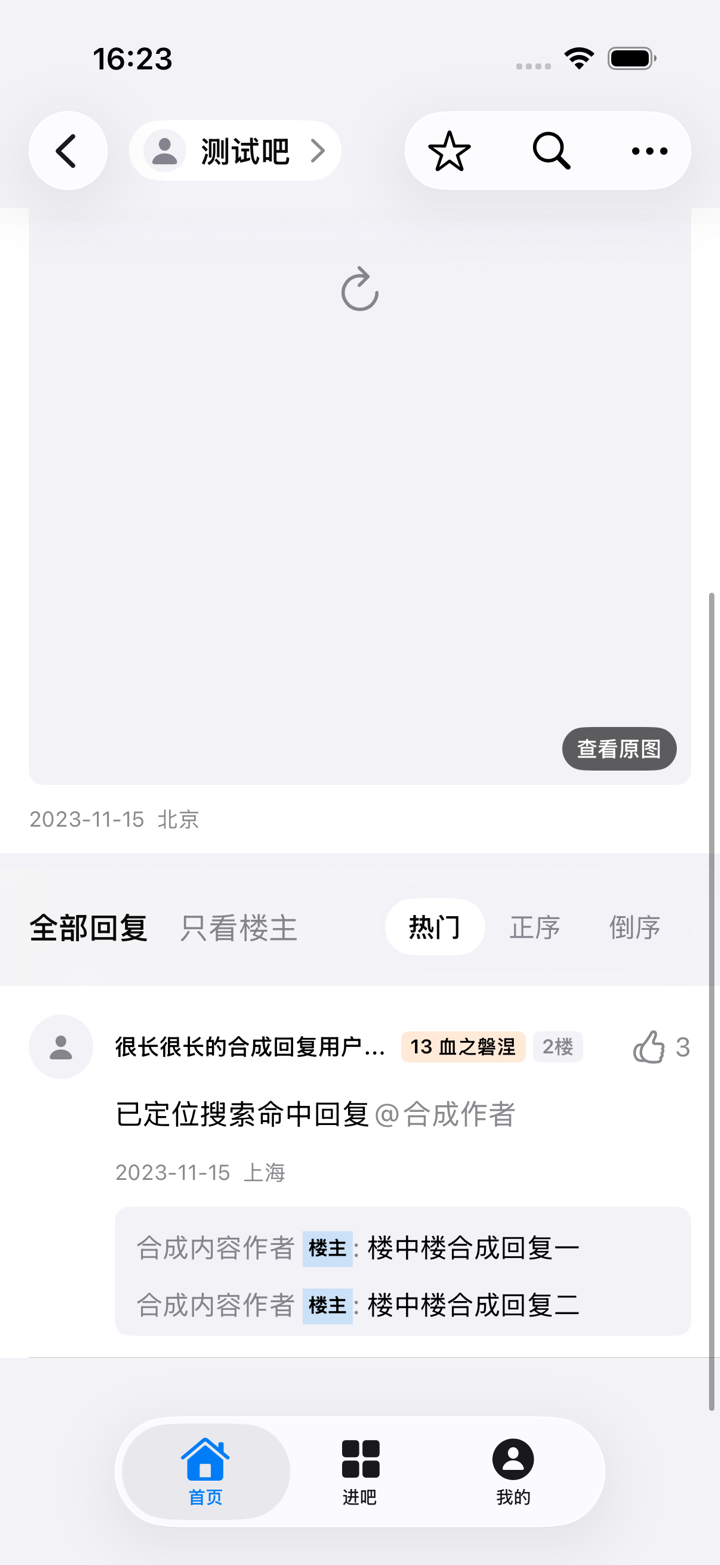
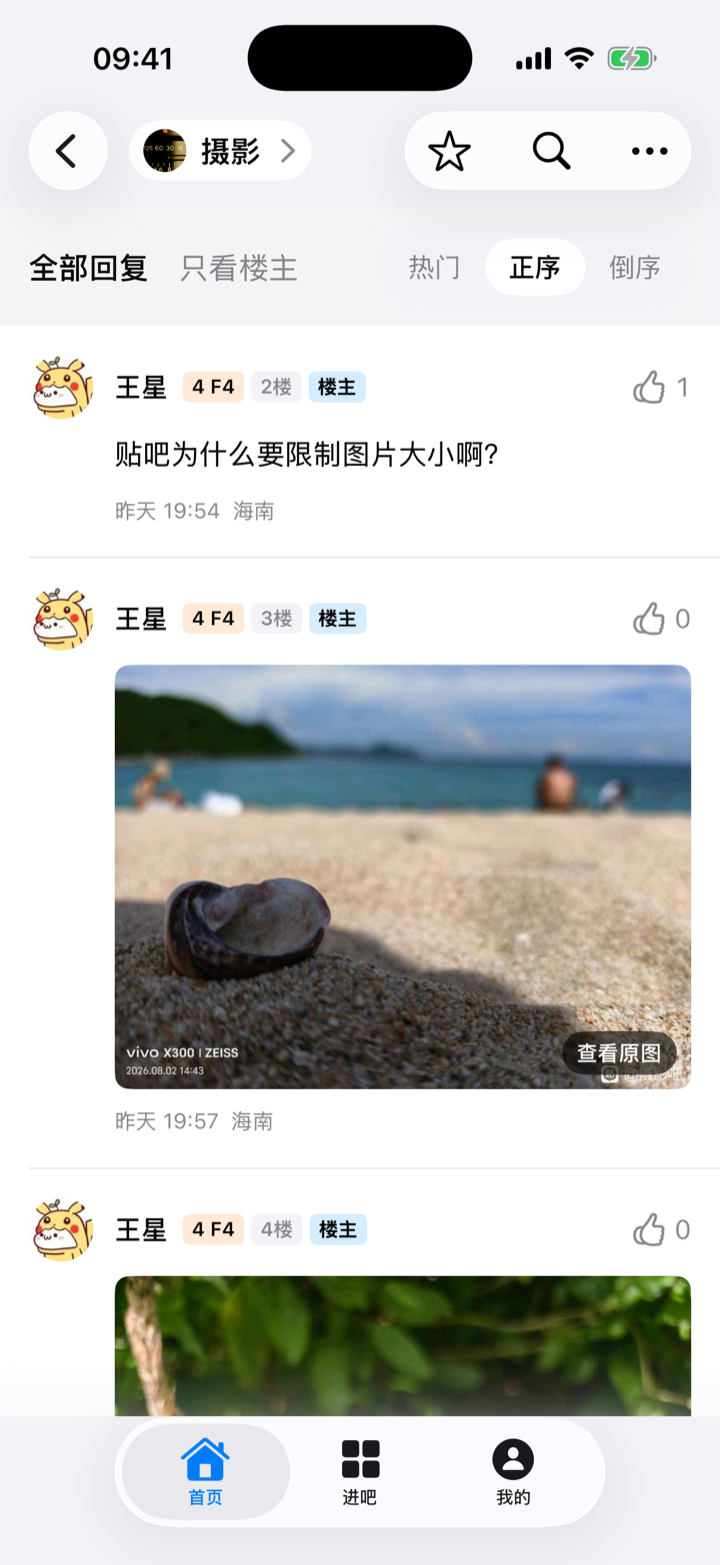
docs: use real guest screenshots

diff --git a/README.md b/README.md
@@ -9,12 +9,12 @@
 ## 截图
 
 <p align="center">
-  <img src="docs/images/forum-light.png" width="31%" alt="浅色模式合成首页" />
-  <img src="docs/images/thread-light.png" width="31%" alt="浅色模式合成帖子详情" />
-  <img src="docs/images/search-dark.png" width="31%" alt="深色模式合成搜索结果" />
+  <img src="docs/images/home-light.png" width="31%" alt="未登录访客首页" />
+  <img src="docs/images/thread-light.png" width="31%" alt="未登录访客帖子详情" />
+  <img src="docs/images/search-light.png" width="31%" alt="未登录访客搜索结果" />
 </p>
 
-<p align="center"><sub>使用内置测试数据生成，不含真实账号信息</sub></p>
+<p align="center"><sub>未登录访客模式下的公开内容；截图时可见图片均已加载</sub></p>
 
 ## 功能
 
